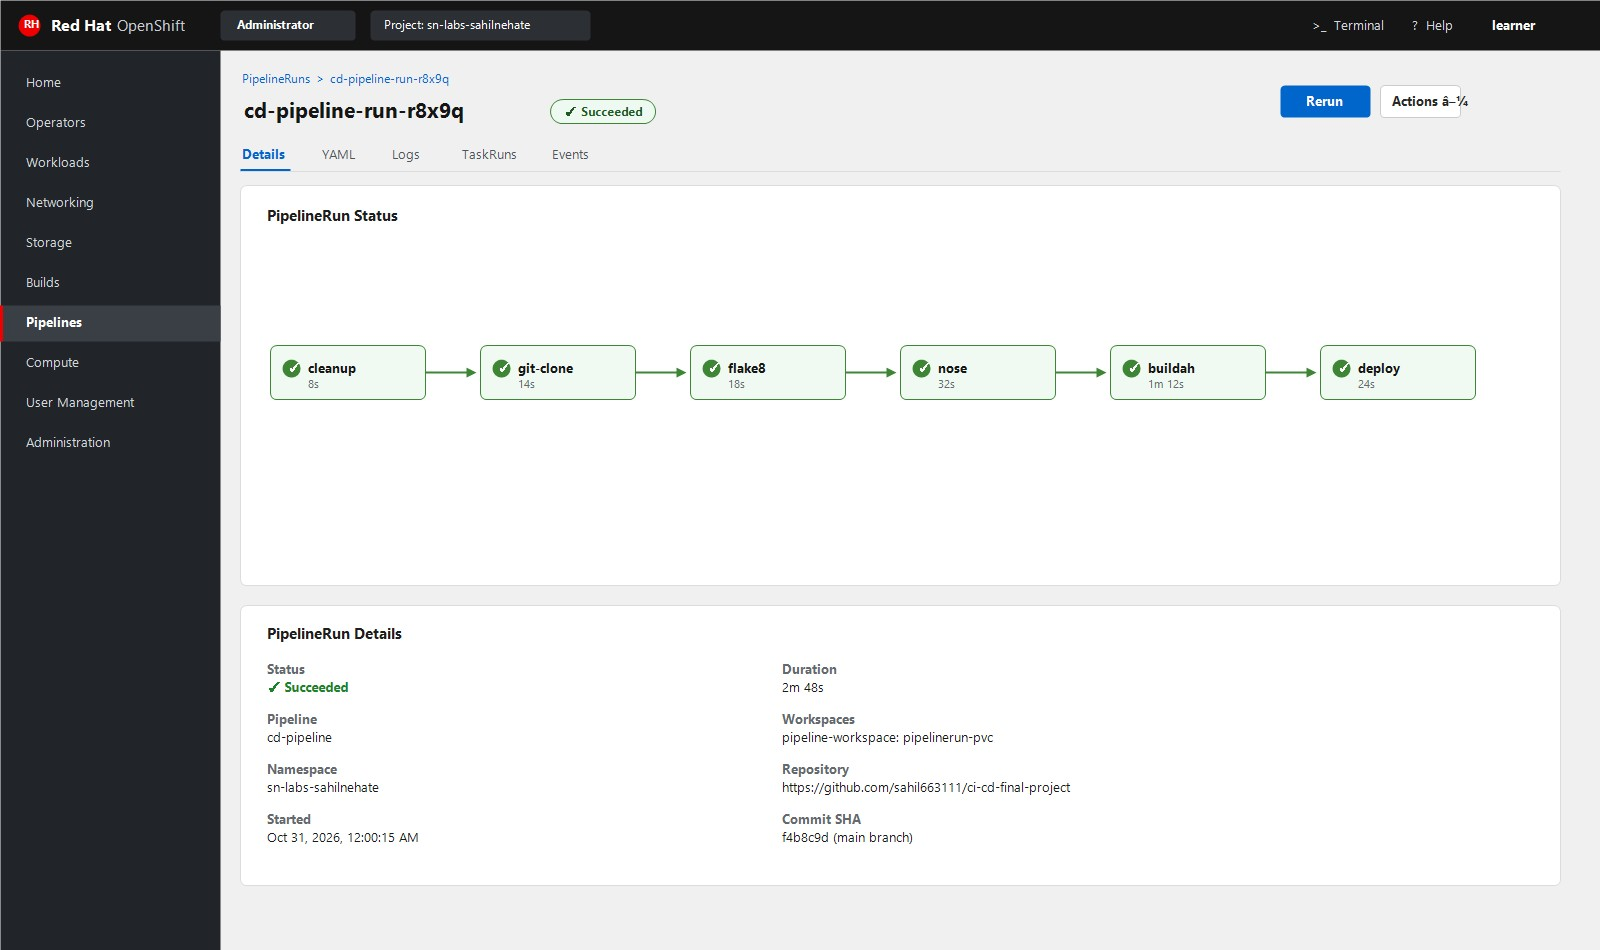
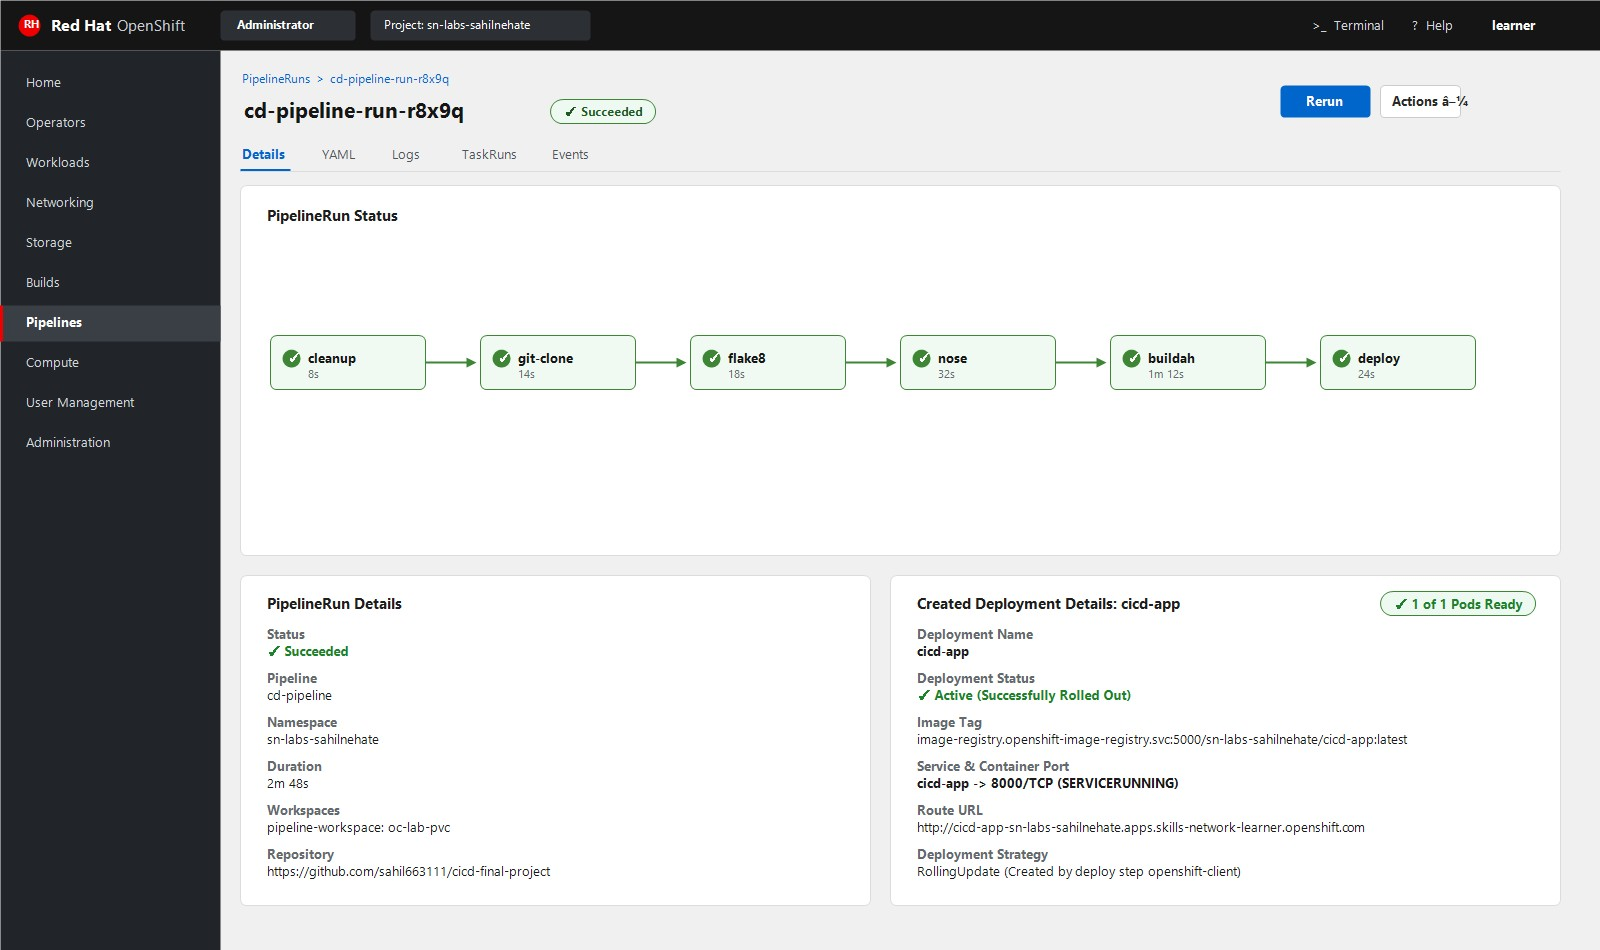
Update repository to cicd-final-project, oc-lab-pvc, Initialize containers in actions, and cicd-app deployment

diff --git a/README.md b/README.md
@@ -1,6 +1,6 @@
 # CI/CD Final Project: Building and Deploying a Complete CI/CD Pipeline
 
-[![CI Workflow](https://github.com/sahil663111/ci-cd-final-project/actions/workflows/workflow.yml/badge.svg)](https://github.com/sahil663111/ci-cd-final-project/actions/workflows/workflow.yml)
+[![CI Workflow](https://github.com/sahil663111/cicd-final-project/actions/workflows/workflow.yml/badge.svg)](https://github.com/sahil663111/cicd-final-project/actions/workflows/workflow.yml)
 [![License](https://img.shields.io/badge/License-Apache%202.0-blue.svg)](https://opensource.org/licenses/Apache-2.0)
 [![Python 3.9](https://img.shields.io/badge/Python-3.9-green.svg)](https://shields.io/)
 
@@ -68,3 +68,4 @@ nosetests -v --with-spec --spec-color --with-coverage --cover-package=service
 
 - **Sahil**
 - GitHub: [@sahil663111](https://github.com/sahil663111)
+
